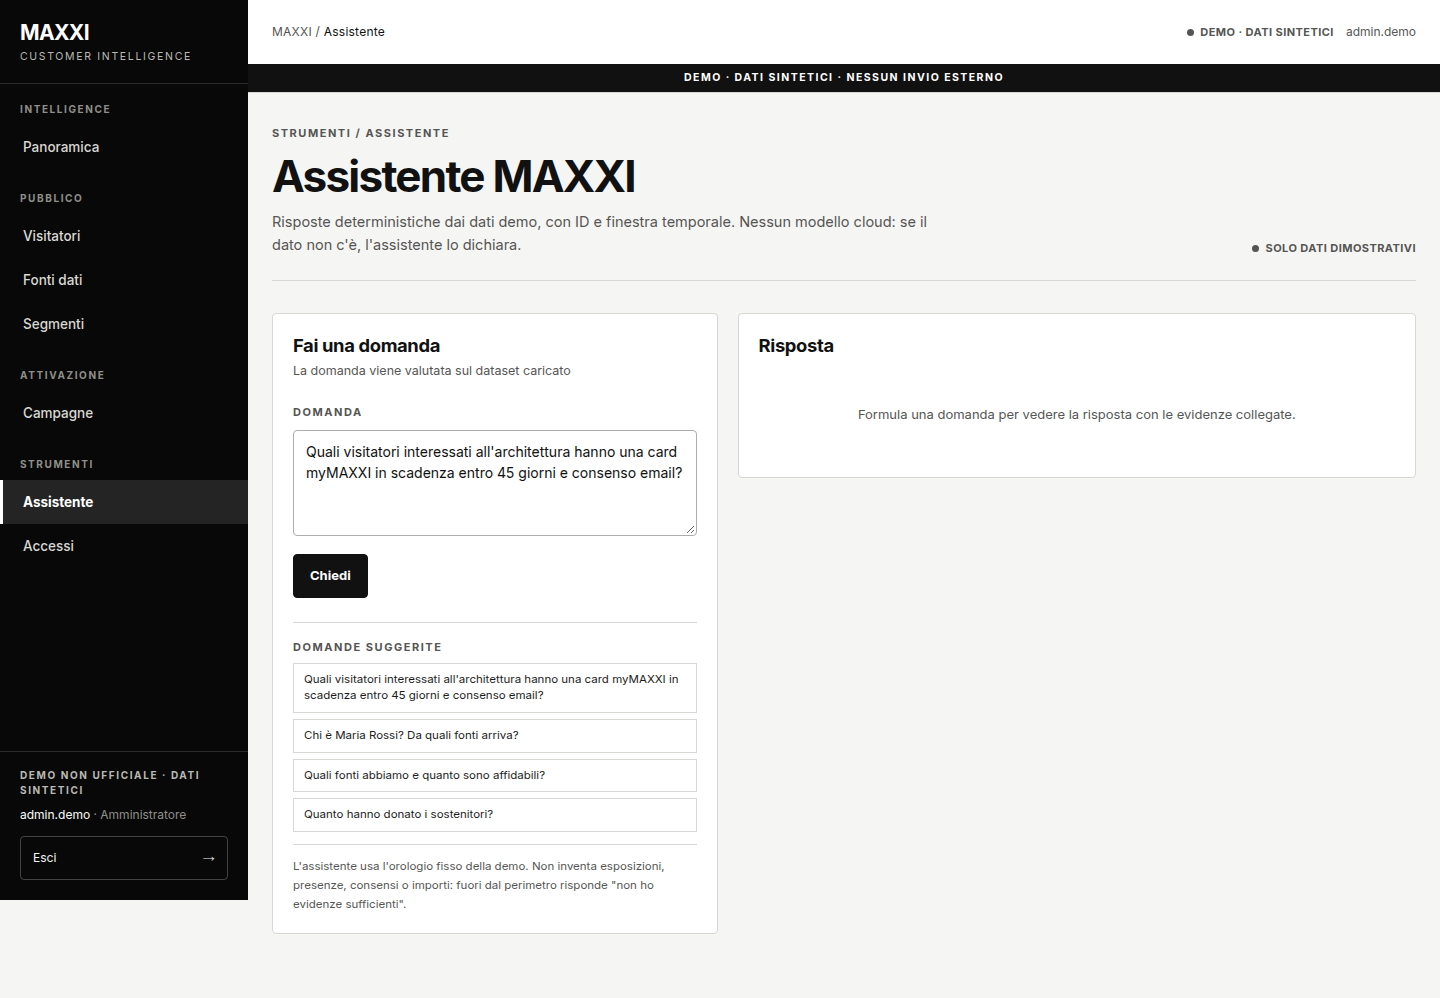
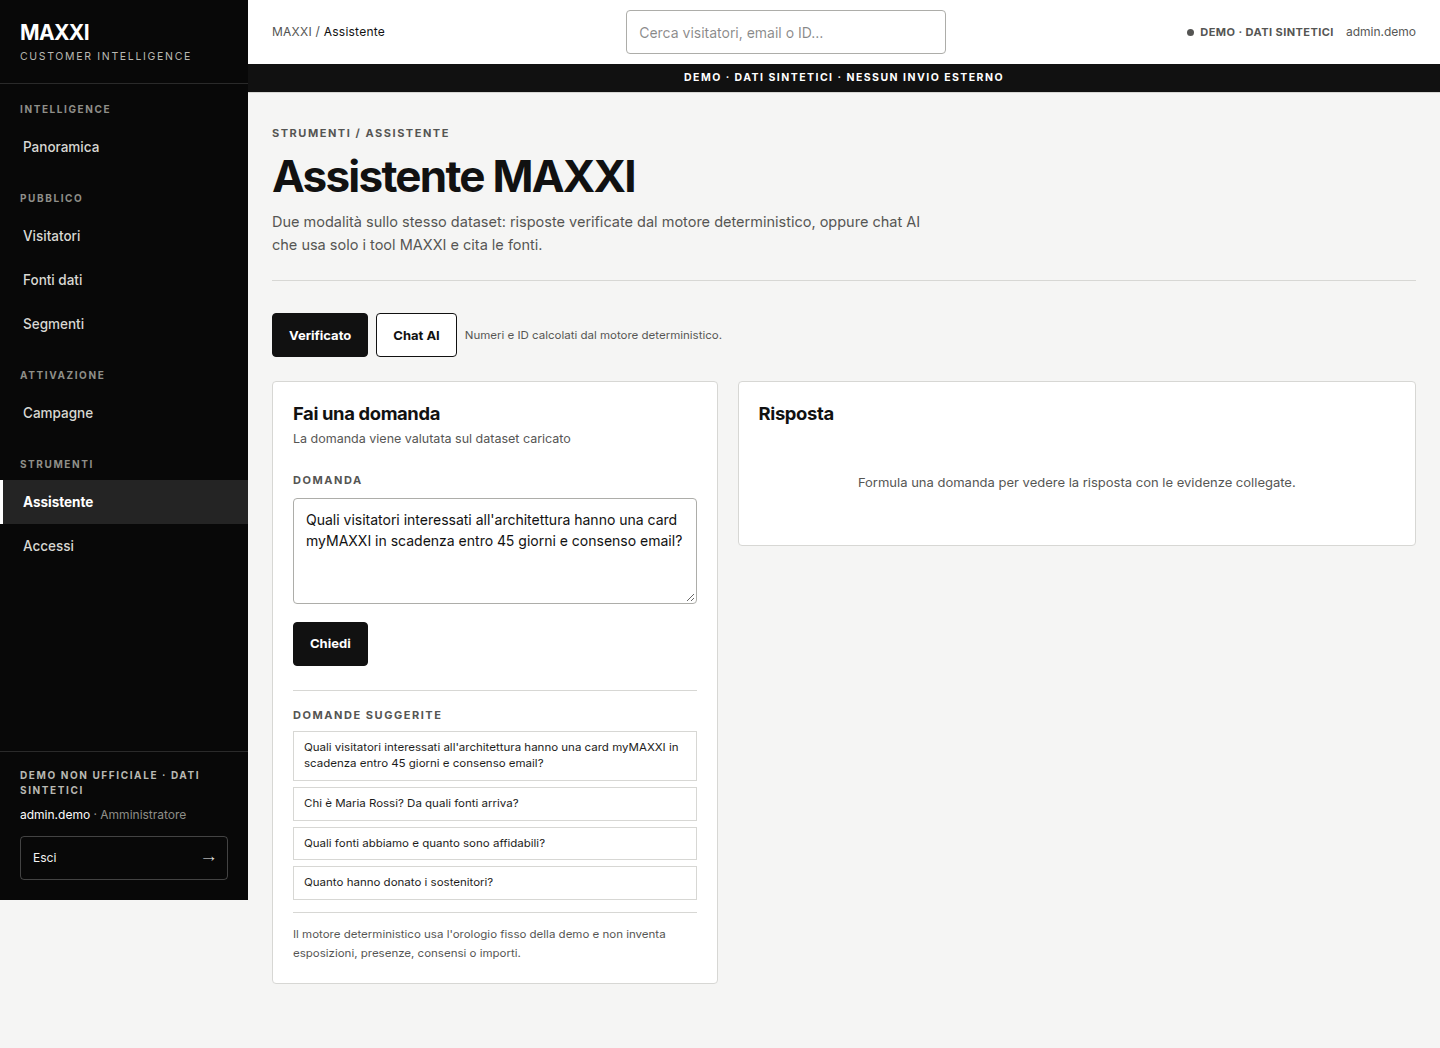
feat(people): visitor search and contextual duplicate review
- server-side search on /api/maxxi/people?q= (name, email or person id),
  capped at 120 chars; the list updates the q URL with a short debounce
- persistent top-bar search on every MAXXI page except the visitors page,
  where the page-level search is already visible
- profile review card is now "Possibile duplicato" and only appears when a
  candidate has the same name/email as that person; the global queue stays
  in /maxxi/sources with a direct link
- table CSS: row headers no longer inherit the uppercase column-label style,
  so visitor names and emails render in normal case
- tests: search by name/email/id and empty result; candidates only on the
  matching profile
- refreshed all QA screenshots + 02b-people-search

Full web suite: 2312 pass, 2 preexisting composio timeouts. Docker rebuilt
and search/profile behaviour verified live.

diff --git a/apps/web/app/maxxi/people/page.tsx b/apps/web/app/maxxi/people/page.tsx
@@ -2,7 +2,7 @@
 
 import { Suspense, useCallback, useEffect, useState } from "react";
 import Link from "next/link";
-import { useSearchParams } from "next/navigation";
+import { useRouter, useSearchParams } from "next/navigation";
 import { Badge, Card, DemoNote, Empty, ErrorNote, Loading, PageHeader, SectionTitle } from "../ui";
 
 type PersonListItem = {
@@ -60,7 +60,10 @@ export default function PeoplePage() {
 
 function PeopleInner() {
 	const params = useSearchParams();
+	const router = useRouter();
 	const selectedId = params.get("id");
+	const q = params.get("q") ?? "";
+	const [search, setSearch] = useState(q);
 	const [people, setPeople] = useState<PersonListItem[]>([]);
 	const [person, setPerson] = useState<Person360 | null>(null);
 	const [error, setError] = useState<string | null>(null);
@@ -76,7 +79,8 @@ function PeopleInner() {
 				if (!res.ok || !body.person) {throw new Error(body.error ?? `HTTP ${res.status}`);}
 				setPerson(body.person);
 			} else {
-				const res = await fetch("/api/maxxi/people", { cache: "no-store" });
+				const query = q ? `?q=${encodeURIComponent(q)}` : "";
+				const res = await fetch(`/api/maxxi/people${query}`, { cache: "no-store" });
 				const body = (await res.json()) as { people?: PersonListItem[]; error?: string };
 				if (!res.ok) {throw new Error(body.error ?? `HTTP ${res.status}`);}
 				setPeople(body.people ?? []);
@@ -86,11 +90,34 @@ function PeopleInner() {
 		} finally {
 			setLoading(false);
 		}
-	}, [selectedId]);
+	}, [selectedId, q]);
 
 	useEffect(() => {
 		void load();
 	}, [load]);
+
+	useEffect(() => {
+		setSearch(q);
+	}, [q]);
+
+	const applySearch = useCallback(
+		(value: string) => {
+			const next = new URLSearchParams(params.toString());
+			const trimmed = value.trim();
+			if (trimmed) {next.set("q", trimmed);} else {next.delete("q");}
+			next.delete("id");
+			const qs = next.toString();
+			router.replace(`/maxxi/people${qs ? `?${qs}` : ""}`, { scroll: false });
+		},
+		[params, router],
+	);
+
+	useEffect(() => {
+		const timer = setTimeout(() => {
+			if (search !== q) {applySearch(search);}
+		}, 250);
+		return () => clearTimeout(timer);
+	}, [search, q, applySearch]);
 
 	if (error) {return <ErrorNote>{error}</ErrorNote>;}
 	if (loading) {return <Loading label="Caricamento visitatori…" />;}
@@ -102,11 +129,40 @@ function PeopleInner() {
 				eyebrow="Pubblico / Visitatori"
 				title="Profili 360"
 				subtitle="Persone univoche del dataset dimostrativo. Ogni profilo conserva la provenienza dei record e distingue visite, acquisti e consensi."
+				actions={
+					<form
+						role="search"
+						onSubmit={(event) => { event.preventDefault(); applySearch(search); }}
+						className="flex w-full max-w-sm gap-2"
+					>
+						<input
+							type="search"
+							value={search}
+							onChange={(event) => setSearch(event.target.value)}
+							placeholder="Cerca nome, email o ID…"
+							aria-label="Cerca visitatori per nome, email o ID"
+							className="maxxi-input"
+						/>
+						<button type="submit" className="maxxi-secondary-action">
+							Cerca
+						</button>
+					</form>
+				}
 			/>
+
+			{q && (
+				<p className="text-[12px]" role="status" style={{ color: "var(--maxxi-muted)" }}>
+					Risultati per “{q}”: {people.length}
+				</p>
+			)}
 
 			<Card className="p-0">
 				{people.length === 0 ? (
-					<Empty>Nessuna persona: esegui il seed demo dalla Panoramica.</Empty>
+					<Empty>
+						{q
+							? `Nessun visitatore trovato per “${q}”.`
+							: "Nessuna persona: esegui il seed demo dalla Panoramica."}
+					</Empty>
 				) : (
 					<div className="maxxi-table-scroll">
 						<table className="maxxi-table">
@@ -401,8 +457,8 @@ function Profile360({ person }: { person: Person360 }) {
 
 			{person.reviewCandidates.length > 0 && (
 				<Card>
-					<SectionTitle hint="Non uniti automaticamente: serve una decisione umana">
-						Candidati in revisione
+					<SectionTitle hint="Record simile non unito automaticamente: la decisione si prende nella coda di revisione.">
+						Possibile duplicato
 					</SectionTitle>
 					<ul className="divide-y" style={{ borderColor: "var(--maxxi-line)" }}>
 						{person.reviewCandidates.map((candidate) => (
@@ -420,6 +476,9 @@ function Profile360({ person }: { person: Person360 }) {
 							</li>
 						))}
 					</ul>
+					<Link href="/maxxi/sources" className="maxxi-secondary-action mt-3">
+						Apri coda di revisione
+					</Link>
 				</Card>
 			)}
 		</div>

diff --git a/apps/web/lib/maxxi/queries.ts b/apps/web/lib/maxxi/queries.ts
@@ -26,8 +26,12 @@ export type PersonSummary = {
   lastEventAt: string | null;
 };
 
-export async function listPeople(options?: { limit?: number }): Promise<PersonSummary[]> {
+export async function listPeople(options?: { limit?: number; search?: string }): Promise<PersonSummary[]> {
   const limit = Math.max(1, Math.min(200, options?.limit ?? 100));
+  const search = (options?.search ?? "").trim().replace(/'/g, "''");
+  const where = search
+    ? `WHERE p.name ILIKE '%${search}%' OR p.email ILIKE '%${search}%' OR p.person_id ILIKE '%${search}%'`
+    : "";
   const rows = await maxxiQuery<{
     person_id: string;
     name: string;
@@ -45,6 +49,7 @@ export async function listPeople(options?: { limit?: number }): Promise<PersonSu
       (SELECT COUNT(*) FROM maxxi_membership m WHERE m.person_id = p.person_id) AS memberships,
       (SELECT MAX(e.occurred_at) FROM maxxi_event e WHERE e.person_id = p.person_id) AS last_event_at
     FROM maxxi_person p
+    ${where}
     ORDER BY p.name ASC
     LIMIT ${limit};
   `);
@@ -141,11 +146,18 @@ export async function getPerson360(personId: string): Promise<Person360 | null> 
   }>(`SELECT source_system, source_record_id, match_method, confidence, status, matched_at
       FROM maxxi_identity_link WHERE person_id = '${safe}' ORDER BY source_system;`);
 
+  // Only candidates that plausibly refer to THIS person (same name or email).
+  // Showing the global review queue on every profile was confusing: it made
+  // unrelated visitors look like duplicates.
+  const safeName = person.name.replace(/'/g, "''");
+  const safeEmail = person.email.replace(/'/g, "''");
   const candidates = await maxxiQuery<{
     candidate_id: string; name: string; email: string; source_system: string;
     source_record_id: string; reason: string; status: string;
   }>(`SELECT candidate_id, name, email, source_system, source_record_id, reason, status
-      FROM maxxi_review_candidate ORDER BY candidate_id;`);
+      FROM maxxi_review_candidate
+      WHERE lower(name) = lower('${safeName}') OR lower(email) = lower('${safeEmail}')
+      ORDER BY candidate_id;`);
 
   const events = await maxxiQuery<{
     event_id: string; type: string; occurred_at: string; source_system: string;

diff --git a/apps/web/app/maxxi/shell.tsx b/apps/web/app/maxxi/shell.tsx
@@ -2,7 +2,7 @@
 
 import { useEffect, useRef, useState, type ReactNode } from "react";
 import Link from "next/link";
-import { usePathname } from "next/navigation";
+import { usePathname, useRouter } from "next/navigation";
 import { hasRole, useMe } from "./use-me";
 import { labelForRole, type OperatorRole } from "../../lib/security/rbac";
 
@@ -51,8 +51,10 @@ function currentLabel(pathname: string): string {
 
 export function MaxxiShell({ children }: { children: ReactNode }) {
 	const pathname = usePathname();
+	const router = useRouter();
 	const { me } = useMe();
 	const [open, setOpen] = useState(false);
+	const [globalQuery, setGlobalQuery] = useState("");
 	const menuButton = useRef<HTMLButtonElement>(null);
 	const sidebar = useRef<HTMLElement>(null);
 
@@ -183,6 +185,27 @@ export function MaxxiShell({ children }: { children: ReactNode }) {
 									MAXXI / <span className="text-[var(--maxxi-ink)]">{currentLabel(pathname)}</span>
 								</p>
 							</div>
+
+							{pathname !== "/maxxi/people" && (
+								<form
+									role="search"
+									onSubmit={(event) => {
+										event.preventDefault();
+										const query = globalQuery.trim();
+										router.push(`/maxxi/people${query ? `?q=${encodeURIComponent(query)}` : ""}`);
+									}}
+									className="hidden min-w-0 flex-1 justify-center px-4 md:flex"
+								>
+									<input
+										type="search"
+										value={globalQuery}
+										onChange={(event) => setGlobalQuery(event.target.value)}
+										placeholder="Cerca visitatori, email o ID…"
+										aria-label="Cerca visitatori"
+										className="maxxi-input max-w-xs"
+									/>
+								</form>
+							)}
 
 							<div className="flex items-center gap-3">
 								<span className="maxxi-status maxxi-status-neutral">

diff --git a/apps/web/lib/maxxi/seed.test.ts b/apps/web/lib/maxxi/seed.test.ts
@@ -11,7 +11,7 @@ process.env.CRM_A_MAXXI_FIXTURE = path.resolve(
 );
 
 const { seedMaxxiDemo, resolveIdentity } = await import("./seed");
-const { createCampaignDraft, getActivityByMonth, getCampaignDetail, getDashboardKpis, getPerson360, evaluateArchRenewal45d, listReviewCandidates, listSources } =
+const { createCampaignDraft, getActivityByMonth, getCampaignDetail, getDashboardKpis, getPerson360, evaluateArchRenewal45d, listPeople, listReviewCandidates, listSources } =
   await import("./queries");
 const { loadMaxxiFixture } = await import("./fixture");
 
@@ -37,6 +37,20 @@ describe("MAXXI seed — determinism and identity", () => {
     expect(activity.map((point) => point.month)).toEqual(["2026-08", "2026-09", "2026-10"]);
     expect(activity.reduce((sum, point) => sum + point.visits, 0)).toBe(6);
     expect(activity.reduce((sum, point) => sum + point.events, 0)).toBe(11);
+  });
+
+  it("searches visitors by name, email and ID", async () => {
+    expect((await listPeople({ search: "elena" })).map((person) => person.id)).toEqual(["P-ELENA"]);
+    expect((await listPeople({ search: "maria.rossi@" })).some((person) => person.id === "P-MARIA")).toBe(true);
+    expect((await listPeople({ search: "P-GIULIA" })).map((person) => person.id)).toEqual(["P-GIULIA"]);
+    expect(await listPeople({ search: "nessuno-xy" })).toEqual([]);
+  });
+
+  it("shows review candidates only on the matching profile", async () => {
+    const maria = await getPerson360("P-MARIA");
+    expect(maria?.reviewCandidates.length).toBe(1);
+    const giulia = await getPerson360("P-GIULIA");
+    expect(giulia?.reviewCandidates).toEqual([]);
   });
 
   it("returns the full detail of a dry-run campaign draft", async () => {

diff --git a/apps/web/app/api/maxxi/people/route.ts b/apps/web/app/api/maxxi/people/route.ts
@@ -18,6 +18,7 @@ export async function GET(req: Request) {
   const url = new URL(req.url);
   const id = url.searchParams.get("id")?.trim();
   const limitRaw = Number(url.searchParams.get("limit") ?? "100");
+  const q = (url.searchParams.get("q") ?? "").trim().slice(0, 120);
   const canViewNotes =
     auth.principal.sub === "operator"
       ? auth.principal.roles.includes("admin") || auth.principal.roles.includes("infopoint")
@@ -32,8 +33,11 @@ export async function GET(req: Request) {
       }
       return Response.json({ ok: true, person });
     }
-    const people = await listPeople({ limit: Number.isFinite(limitRaw) ? limitRaw : 100 });
-    return Response.json({ ok: true, people });
+    const people = await listPeople({
+      limit: Number.isFinite(limitRaw) ? limitRaw : 100,
+      search: q,
+    });
+    return Response.json({ ok: true, people, query: q });
   } catch (err) {
     return Response.json(
       { error: err instanceof Error ? err.message : "People query failed." },

diff --git a/apps/web/app/globals.css b/apps/web/app/globals.css
@@ -2732,10 +2732,17 @@ td:has(> div > :empty) {
   font-size: 13.5px;
 }
 
-[data-workspace-theme="maxxi"] .maxxi-table th {
-  padding: 10px 14px;
-  border-bottom: 1px solid var(--maxxi-line-strong);
+[data-workspace-theme="maxxi"] .maxxi-table th,
+[data-workspace-theme="maxxi"] .maxxi-table td {
+  padding: 12px 14px;
+  border-bottom: 1px solid var(--maxxi-line);
   text-align: left;
+  vertical-align: top;
+}
+
+[data-workspace-theme="maxxi"] .maxxi-table thead th {
+  padding: 10px 14px;
+  border-bottom-color: var(--maxxi-line-strong);
   font-size: 10.5px;
   font-weight: 700;
   letter-spacing: 0.09em;
@@ -2744,10 +2751,8 @@ td:has(> div > :empty) {
   white-space: nowrap;
 }
 
-[data-workspace-theme="maxxi"] .maxxi-table td {
-  padding: 12px 14px;
-  border-bottom: 1px solid var(--maxxi-line);
-  vertical-align: top;
+[data-workspace-theme="maxxi"] .maxxi-table tbody th {
+  font-weight: 600;
 }
 
 [data-workspace-theme="maxxi"] .maxxi-table tbody tr:hover {

diff --git a/DELIVERY_REPORT.md b/DELIVERY_REPORT.md
@@ -13,7 +13,7 @@ Pull request: https://github.com/TopCS/crmaconsole/pull/1
 | G3 demo UI | ✅ | 7 viste navigabili con tema editoriale MAXXI scoped (panoramica, profilo 360, fonti, segmenti, campagne, assistente, accessi) |
 | G4 agent | ✅ | 3 tool OpenClaw + **Chat AI ibrida** (tool read-only, citazioni, fallback deterministico); modalità Verificato sempre disponibile |
 | G5 actions | ✅ | Zero outbound: adapter bloccati lato server in demo mode + audit |
-| G6 regression | ⚠ | Suite web: 2310 pass / 2 fail **preesistenti** (timeout in `composio-execute-direct.test.ts`). Build web OK. Build Docker bloccata da errore di rete preesistente (`npm install -g openclaw`), non dal codice |
+| G6 regression | ⚠ | Suite web: 2312 pass / 2 fail **preesistenti** (timeout in `composio-execute-direct.test.ts`). Build web OK. Build Docker bloccata da errore di rete preesistente (`npm install -g openclaw`), non dal codice |
 | G7 visual | ✅ | Tema scoped, responsive, drawer mobile, focus/tastiera, screenshot desktop/mobile, UX-001..010 in `docs/maxxi/UI_QA.md` (UX-007 parziale: contrasto non misurato con axe) |
 
 ## 2. Test realmente eseguiti
@@ -38,7 +38,7 @@ Test nuovi aggiunti (tutti verdi):
 - `apps/web/lib/maxxi/agent.test.ts` (5) — AGT-001/AGT-002, persona, fallback.
 
 Eseguiti anche: visual QA con Chrome headless (Playwright) su build di produzione,
-login Keycloak reale, viewport desktop e mobile, 14 screenshot. Non eseguiti: suite
+login Keycloak reale, viewport desktop e mobile, 15 screenshot. Non eseguiti: suite
 E2E Playwright completa e test su istanza pubblica (per scelta: nessuna esposizione).
 
 ### Verifica live (Next dev su porta dedicata, DB demo temporaneo)
@@ -60,7 +60,7 @@ E2E Playwright completa e test su istanza pubblica (per scelta: nessuna esposizi
 | `/maxxi` desktop 1440×900 | 4 KPI + grafico + fonti + revisione, `overflowX = 0` |
 | `/maxxi` mobile 375×812 | nessun overflow; drawer apribile con `aria-expanded="true"` |
 | `/workspace` standard | nessuno scope MAXXI; accent `#0065A2`, sfondo `#f5f5f4` invariati |
-| Screenshot | 14 PNG in `docs/maxxi/screenshots/` (desktop, mobile, drawer, dettaglio bozza, non-regressione) |
+| Screenshot | 15 PNG in `docs/maxxi/screenshots/` (desktop, mobile, drawer, dettaglio bozza, non-regressione) |
 | Dettaglio bozza | `GET /api/maxxi/campaigns?id=…` con testo, anteprima, destinatari, esclusioni e audit; contatti mascherati per ruoli senza `people.read` |
 | Console browser (build produzione) | 0 errori su tutte le viste |
 
@@ -111,6 +111,7 @@ E2E Playwright completa e test su istanza pubblica (per scelta: nessuna esposizi
 - `apps/web/lib/maxxi/chat.ts` *(nuovo)* + `app/api/maxxi/chat/route.ts` *(nuovo)* — chat LLM con tool allowlist MAXXI, fallback deterministico, audit.
 - `apps/web/app/maxxi/agent/page.tsx` — selettore **Verificato / Chat AI**, tool usati, badge fallback.
 - `apps/web/app/maxxi/campaigns/page.tsx` + `api/maxxi/campaigns` + `lib/maxxi/queries.ts` — pannello dettaglio bozza, mascheramento destinatari per ruolo, link “Apri bozza” dal segmento.
+- `apps/web/app/maxxi/people/page.tsx` + `api/maxxi/people` + `lib/maxxi/queries.ts` — ricerca server-side per nome/email/ID, barra di ricerca globale, “Possibile duplicato” filtrato sulla persona.
 - `apps/web/lib/crm-graph.ts` — guardia `json_valid` nell'unnest delle relazioni: con DuckDB CLI 2.0 il filtro non veniva applicato prima del cast e la query restituiva zero archi (fix incidentale, test `crm-graph` verde).
 - `docs/maxxi/UI_DESIGN_SYSTEM.md`, `UI_ASSET_REGISTER.md`, `UI_QA.md` *(nuovi)* + `screenshots/*.png`.
 

diff --git a/docs/maxxi/PROFILE_360.md b/docs/maxxi/PROFILE_360.md
@@ -2,6 +2,11 @@
 
 Vista: `/maxxi/people` (elenco) → `/maxxi/people?id=<personId>` (profilo).
 
+L’elenco ha una ricerca server-side per **nome, email o person ID** (`?q=`),
+disponibile anche dalla barra superiore della console. Il profilo mostra la coda
+di revisione solo quando il candidato è plausibilmente la stessa persona: la
+coda globale resta in `/maxxi/sources`.
+
 ## Cosa mostra
 
 | Blocco | Contenuto | Fonte |
@@ -13,7 +18,7 @@ Vista: `/maxxi/people` (elenco) → `/maxxi/people?id=<personId>` (profilo).
 | Organizzazioni | relazioni con organizzazioni (tipo relazione) | `maxxi_relationship` + `maxxi_organization` |
 | Timeline | eventi con data, tipo e **fonte:record su ogni riga** | `maxxi_event` |
 | Infopoint | casi aperti/chiusi con riepilogo | `maxxi_feedback_case` |
-| Candidati in revisione | possibili duplicati non uniti | `maxxi_review_candidate` |
+| Possibile duplicato | solo candidati con **stesso nome o stessa email** della persona; record non uniti automaticamente | `maxxi_review_candidate` filtrata |
 | Qualità del dato | note esplicite (es. "un acquisto non implica la presenza") | calcolate |
 
 ## Esempi nel fixture

diff --git a/docs/maxxi/UI_DESIGN_SYSTEM.md b/docs/maxxi/UI_DESIGN_SYSTEM.md
@@ -98,7 +98,7 @@ Miller) è stato incluso.
 | Vista | Rotta | Interventi |
 |---|---|---|
 | Panoramica | `/maxxi` | hero tipografico, 4 KPI primari, 7 indicatori di contesto, line chart visite/mese, tabella fonti, revisione identità, percorsi demo |
-| Visitatore 360 | `/maxxi/people?id=` | layout 8/4: timeline + provenienza a sinistra, myMAXXI/consensi/interessi/organizzazioni/qualità a destra, feedback e revisione a tutta larghezza |
+| Visitatore 360 | `/maxxi/people?id=` | ricerca server-side per nome/email/ID; layout 8/4: timeline + provenienza a sinistra, myMAXXI/consensi/interessi/organizzazioni/qualità a destra, feedback a tutta larghezza; “Possibile duplicato” solo se il candidato corrisponde |
 | Fonti | `/maxxi/sources` | tabella qualità con record, attribuite, non associabili, in revisione, ultimo import |
 | Segmenti | `/maxxi/segments` | due numeri (contattabili vs valutate), esclusioni raggruppate, tabella con motivo testuale, proposta e CTA dry-run |
 | Campagne | `/maxxi/campaigns` | stepper 1–5, banner dry-run, bozze con “Dettaglio” (anteprima, destinatari, esclusioni, audit) e “Simula approvazione” |

diff --git a/docs/maxxi/UI_QA.md b/docs/maxxi/UI_QA.md
@@ -27,6 +27,7 @@ Ambiente: build di produzione Next.js servita su `http://localhost:3100`
 |---|---|---|
 | `screenshots/01-overview-desktop.png` | Panoramica | 1440×900 |
 | `screenshots/02-profile-desktop.png` | Visitatore 360 (`P-MARIA`) | 1440×900 |
+| `screenshots/02b-people-search.png` | Ricerca visitatori (`elena`) | 1440×900 |
 | `screenshots/03-sources-desktop.png` | Fonti e qualità | 1440×900 |
 | `screenshots/04-segments-desktop.png` | Segmenti | 1440×900 |
 | `screenshots/05-campaigns-desktop.png` | Campagne | 1440×900 |
